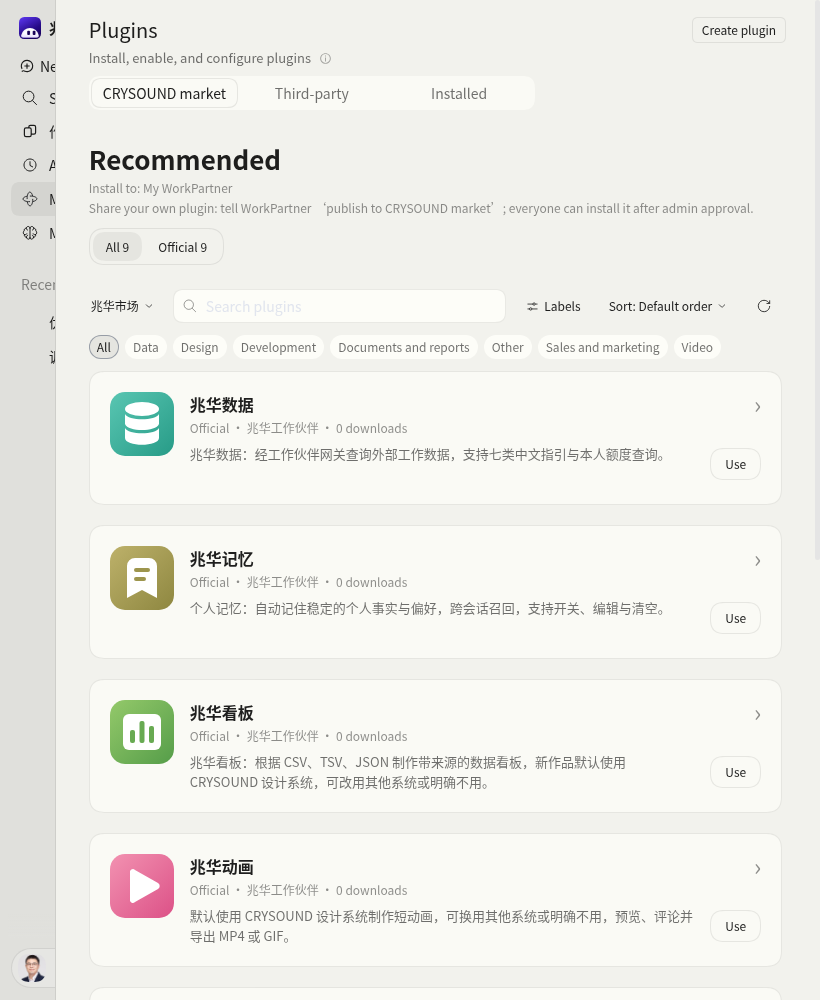
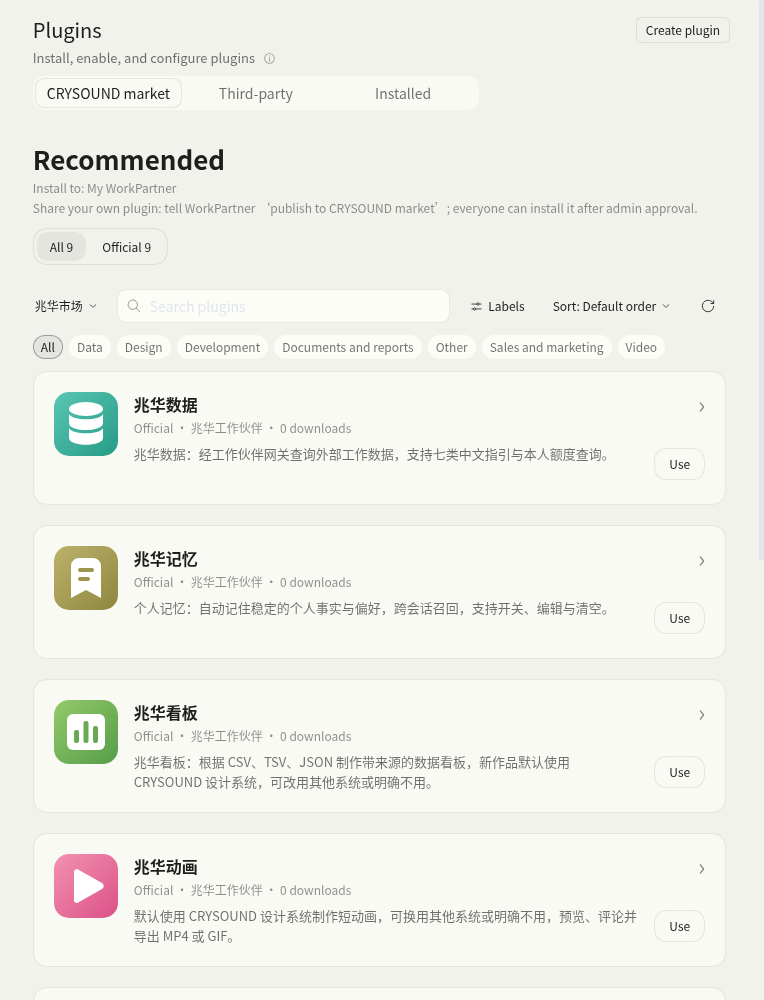
裁去市场验收截图中的账号侧栏

diff --git a/crysound/web/market/evidence/issue-210/README.md b/crysound/web/market/evidence/issue-210/README.md
@@ -2,7 +2,7 @@
 
 The implementation is based on main after PR #205 merged. Chinese and English browser checks use the persistent browser entry configured in the partner-issue skill, in a dedicated authenticated tab. Only that tab's released browser-module responses were replaced; the market listings, search and details came from the existing service. English used a tab-local locale bootstrap with preference persistence disabled. No model prompt, plugin upload, approval or real Feishu message was sent. The test tab was closed afterward.
 
-[Checks](checks.json), [Chinese browser results](zh.json) and [English browser results](en.json) record the executed checks. The hint is 12px secondary gray text with transparent background and no accent border, only in the company market. The existing search, details, filters and other tabs passed. The initial clip-based screenshot method captured stale sidebar coordinates during responsive switching; the verifier now captures the whole viewport. Wide screenshots below are cropped offline to exclude the account sidebar; narrow screenshots retain the icon-only sidebar. No GIF is embedded: the market change adds static text, and real approval interactions require the separate test-account acceptance step.
+[Checks](checks.json), [Chinese browser results](zh.json) and [English browser results](en.json) record the executed checks. The hint is 12px secondary gray text with transparent background and no accent border, only in the company market. The existing search, details, filters and other tabs passed. The initial clip-based screenshot method captured stale sidebar coordinates during responsive switching; the verifier now captures the whole viewport. Screenshots below are cropped offline to exclude the account sidebar: 280px at the wide viewport and 56px after the narrow sidebar has collapsed. No GIF is embedded: the market change adds static text, and real approval interactions require the separate test-account acceptance step.
 
 ![Chinese wide](zh-wide.png)
 
